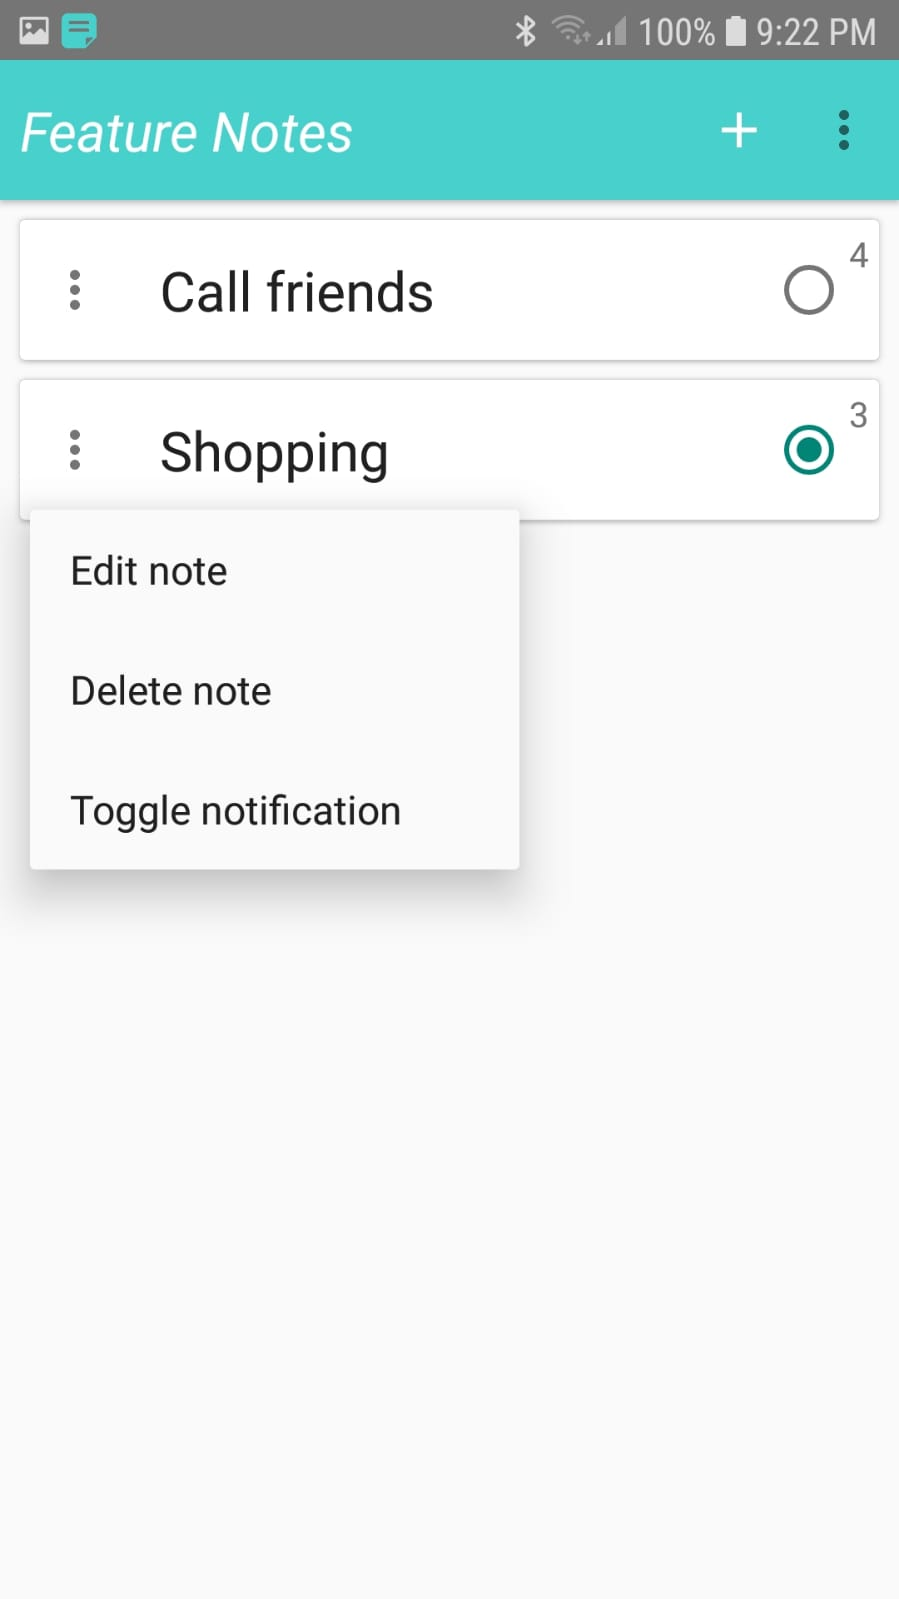
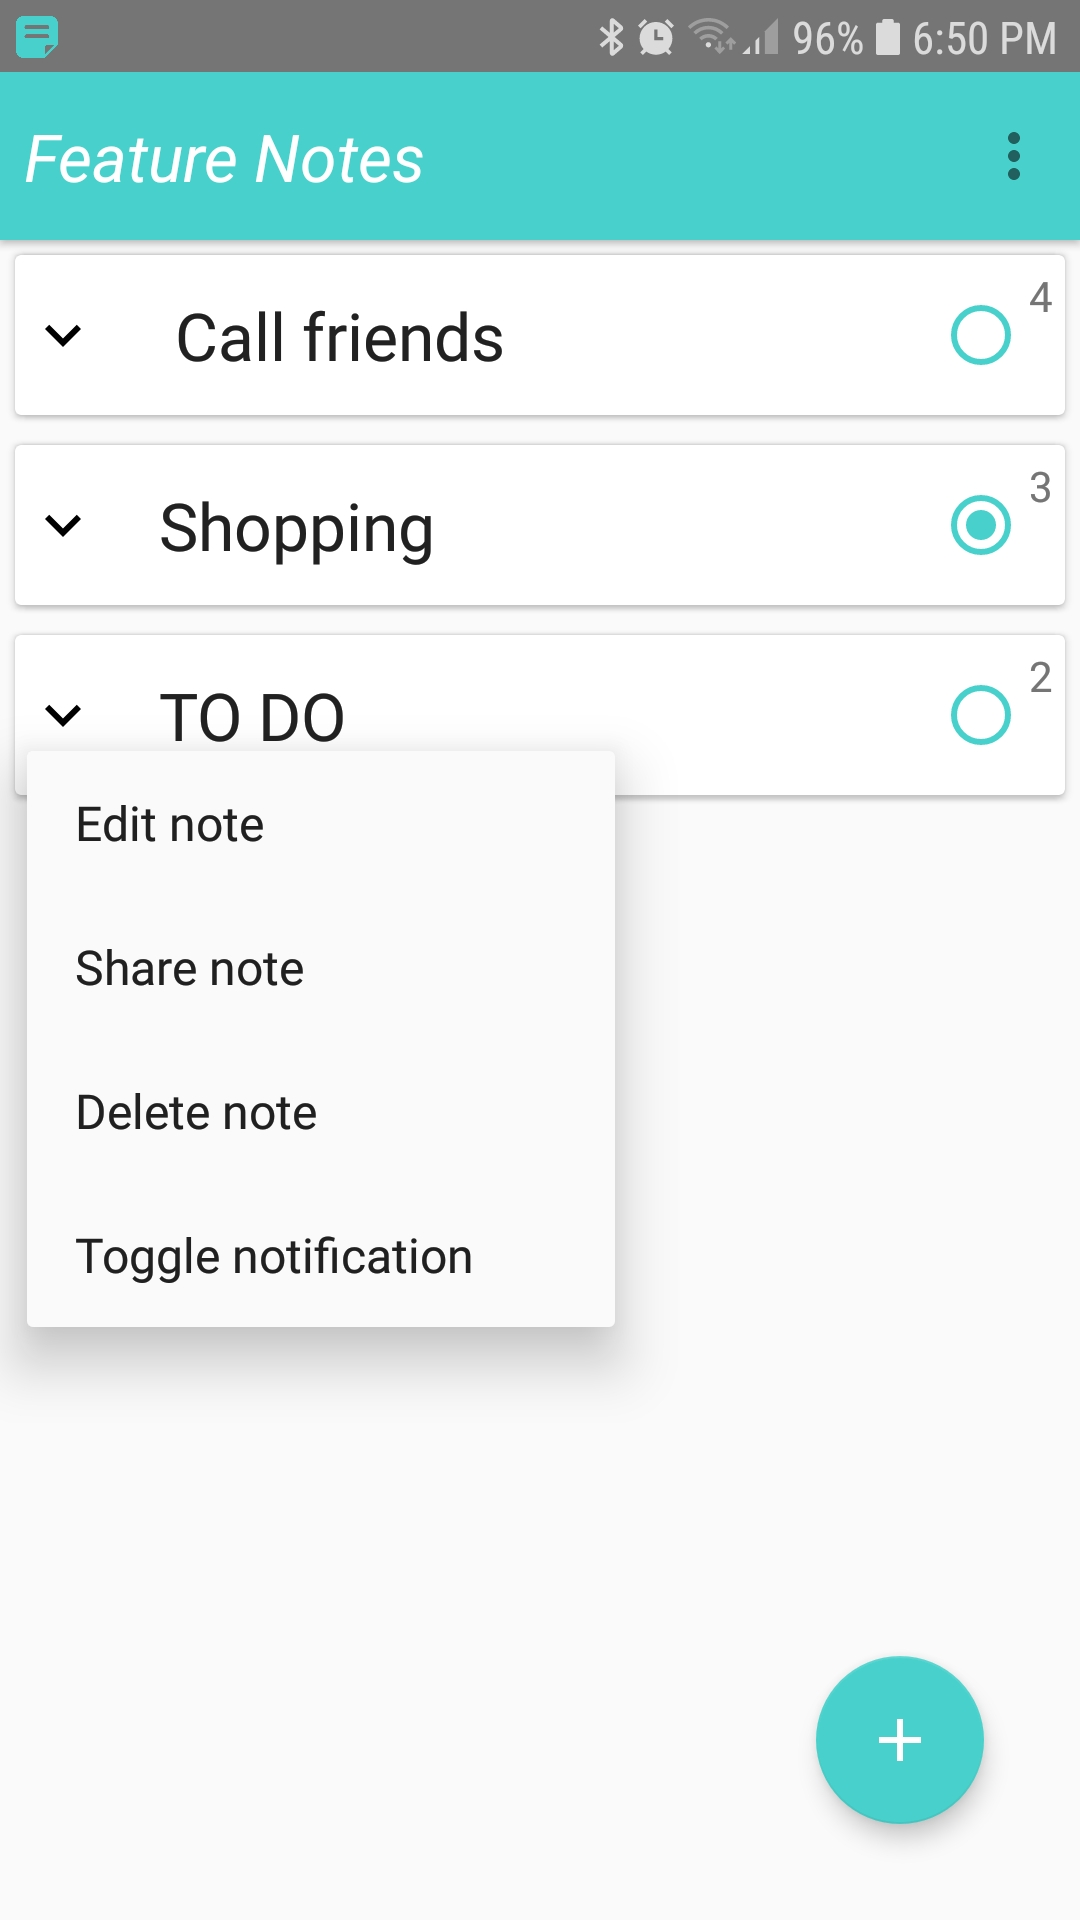
readme + share + screetshot

diff --git a/app/src/main/java/bez/dev/featurenotes/views/DetailActivity.kt b/app/src/main/java/bez/dev/featurenotes/views/DetailActivity.kt
@@ -3,7 +3,6 @@ package bez.dev.featurenotes.views
 import android.content.ClipData
 import android.content.ClipboardManager
 import android.content.Context
-import android.content.Intent
 import android.os.Bundle
 import android.view.Menu
 import android.view.MenuItem
@@ -358,7 +357,7 @@ class DetailActivity : BaseActivity(), OnPrioritySaveClickListener, DetailEditTe
     override fun onPrepareOptionsMenu(menu: Menu): Boolean {
         menuEditItem = menu.findItem(id.edit_note)
         menuPriorityItem = menu.findItem(id.edit_priority)
-        menuShare = menu.findItem(id.share_note)
+        menuShare = menu.findItem(id.detail_share_note)
 
         if (!isExistingNote) { //NEW note - init menu icons
             menuEditItem?.setIcon(drawable.ic_close)
@@ -376,25 +375,18 @@ class DetailActivity : BaseActivity(), OnPrioritySaveClickListener, DetailEditTe
     }
 
     override fun onOptionsItemSelected(item: MenuItem): Boolean {
-        when {
-            item.itemId == id.share_note -> {
-                val sendIntent: Intent = Intent().apply {
-                    action = Intent.ACTION_SEND
-                    putExtra(Intent.EXTRA_TEXT, currentNote.title + "\n" + currentNote.items)
-                    type = "text/plain"
-                }
-
-                val shareIntent = Intent.createChooser(sendIntent, null)
-                startActivity(shareIntent)
+        when (item.itemId) {
+            id.detail_share_note -> {
+                shareNote(currentNote)
             }
-            item.itemId == id.edit_note -> {
+            id.edit_note -> {
                 if (!isEditMode) {
                     enterEditMode()
                 } else {
                     exitEditMode()
                 }
             }
-            item.itemId == id.edit_priority -> {
+            id.edit_priority -> {
                 val priority = Integer.parseInt(item.title.toString())
 
                 val priorityDialog = DetailPriorityDialog(this, priority)

diff --git a/app/src/main/java/bez/dev/featurenotes/views/BaseActivity.kt b/app/src/main/java/bez/dev/featurenotes/views/BaseActivity.kt
@@ -1,5 +1,6 @@
 package bez.dev.featurenotes.views
 
+import android.content.Intent
 import android.os.Bundle
 import androidx.appcompat.app.AppCompatActivity
 import androidx.lifecycle.ViewModelProvider
@@ -31,6 +32,18 @@ abstract class BaseActivity : AppCompatActivity() {
     protected fun deleteNote(note: Note) {
         notificationManager.cancelNotificationById(note.id)
         repoViewModel.delete(note)
+    }
+
+
+
+    protected fun shareNote(note: Note) {
+        val sendIntent: Intent = Intent().apply {
+            action = Intent.ACTION_SEND
+            putExtra(Intent.EXTRA_TEXT, note.toString())
+            type = "text/plain"
+        }
+        val shareIntent = Intent.createChooser(sendIntent, null)
+        startActivity(shareIntent)
     }
 
 

diff --git a/app/src/main/java/bez/dev/featurenotes/data/RealNoteRepository.kt b/app/src/main/java/bez/dev/featurenotes/data/RealNoteRepository.kt
@@ -5,7 +5,11 @@ class RealNoteRepository : NoteRepository() {
     override suspend fun setInitNotes() {
         if (SharedPrefs.getBoolValue(KEY_FIRST_RUN, true)) {
             clearAllData()
-            insert(Note("This is a note", 1, mutableListOf(NoteItem("select edit"), NoteItem("drag and drop"))))
+            insert(Note("This is a note", 1,
+                    mutableListOf(
+                            NoteItem("long click to copy"),
+                            NoteItem("select edit, set priority"),
+                            NoteItem("drag and drop"))))
 
             //toggle to not first run anymore:
             SharedPrefs.setBoolValue(KEY_FIRST_RUN, false)

diff --git a/app/src/main/java/bez/dev/featurenotes/data/Note.kt b/app/src/main/java/bez/dev/featurenotes/data/Note.kt
@@ -24,17 +24,20 @@ data class Note(var title: String
 
 
     override fun toString(): String {
-        return "title: $title, items: $items\n"
+        return "$title:\n $items"
     }
 }
 
 
 @Parcelize
-class NoteItem (var itemText: String, var isStriked: Boolean = false)
+data class NoteItem(var itemText: String, var isDone: Boolean = false)
     : Parcelable {
 
     override fun toString(): String {
-        return "itemText: $itemText , isStriked: $isStriked\n"
+        if (isDone) {
+            return "\n* $itemText(DONE)"
+        }
+        return "\n* $itemText"
     }
 
 }

diff --git a/app/src/main/java/bez/dev/featurenotes/views/MainActivity.kt b/app/src/main/java/bez/dev/featurenotes/views/MainActivity.kt
@@ -115,6 +115,9 @@ class MainActivity : BaseActivity(), MainListAdapter.OnItemClickListener {
                 R.id.main_overflow_note_edit -> {
                     editNote(note)
                 }
+                R.id.main_overflow_note_share -> {
+                    shareNote(note)
+                }
                 R.id.main_overflow_note_delete -> {
                     deleteNote(note)
                     showUndoDelete(note)

diff --git a/README.md b/README.md
@@ -16,11 +16,13 @@ where the user can add items while other apps are in foreground (playing a video
 - Database ViewModel - mutual data access through all activities.
 - ItemTouchHelper callbacks for gesture detection: drag & drop items.
 - Custom Views (AlertDialog) managing their own UI setup and lifecycle.
+- Setting a priority for each note, influences the order in the main list.
 - Toolbar layouts containing menu items in conjunction with custom menu layouts.
 - Data persistence, so we don’t lose data, even when app task is removed.
 - auto generated primary key, where insert() provides us a unique ID val.
 - Setting notes as Notifications, for quick add, even while watching a video.
 - UNDO after deletion, SnackBar for quick restore of notes and note items.
+- Share notes easily + quick text copy of individual note items.
 - Espresso Instrumentation tests across both activities.
 
 <br/>
